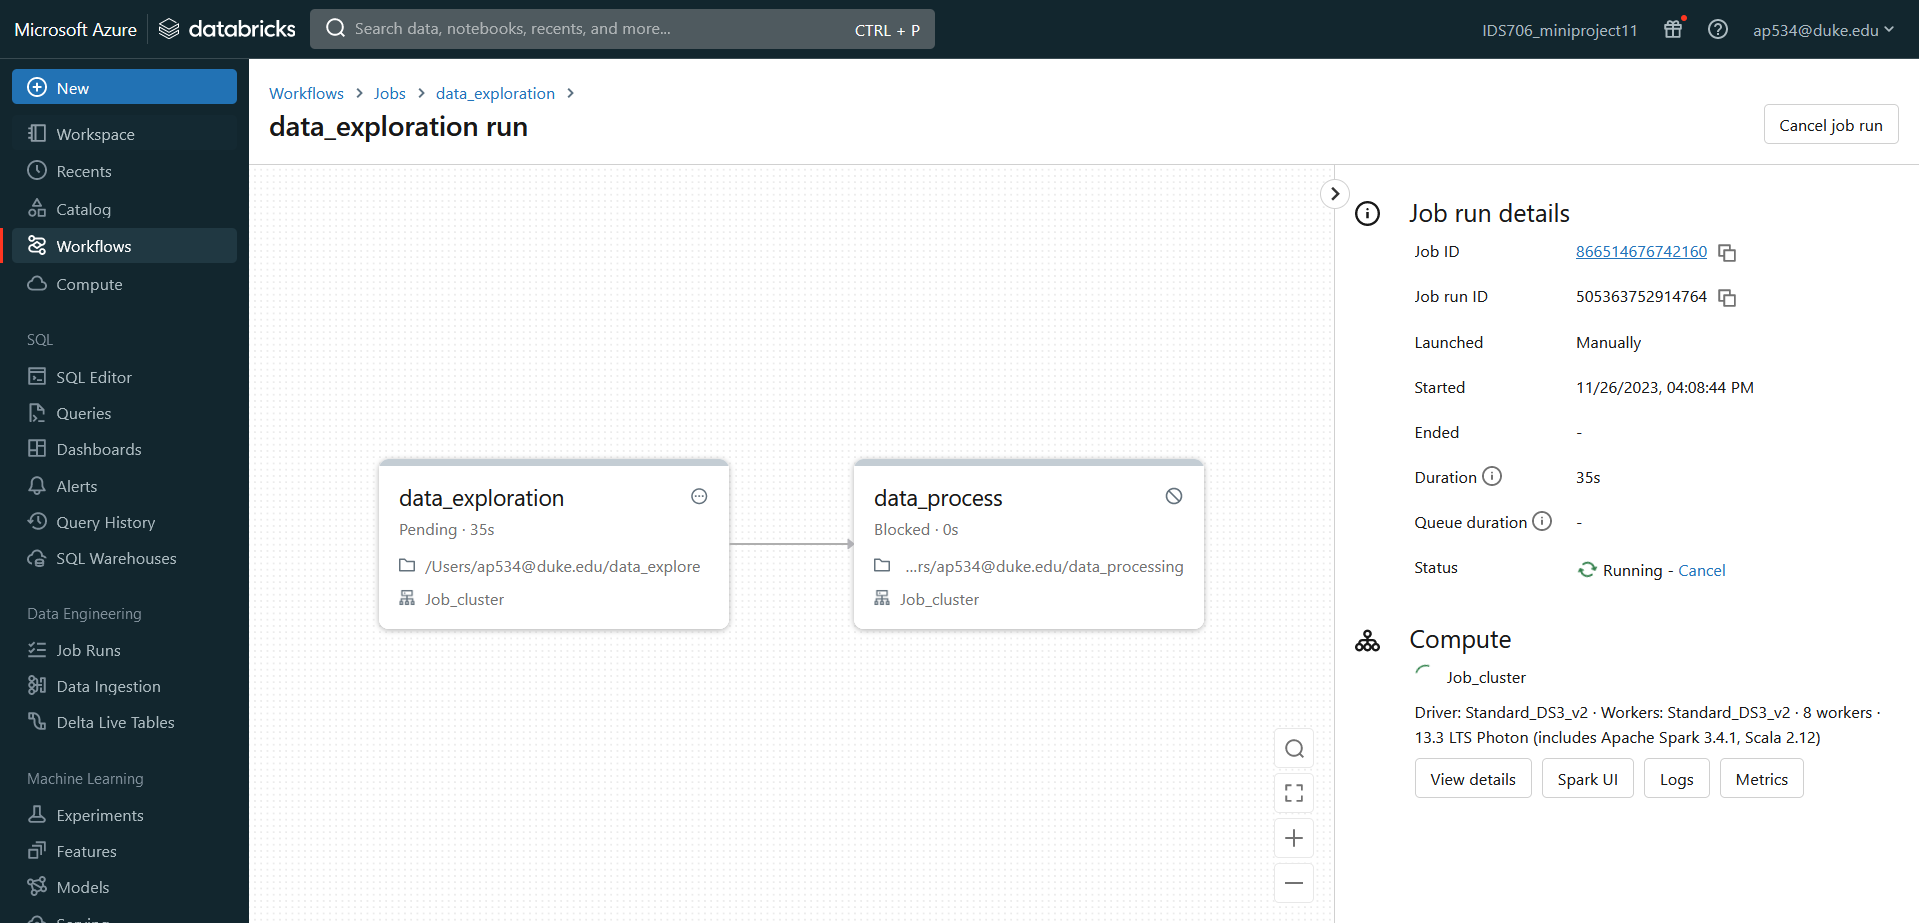
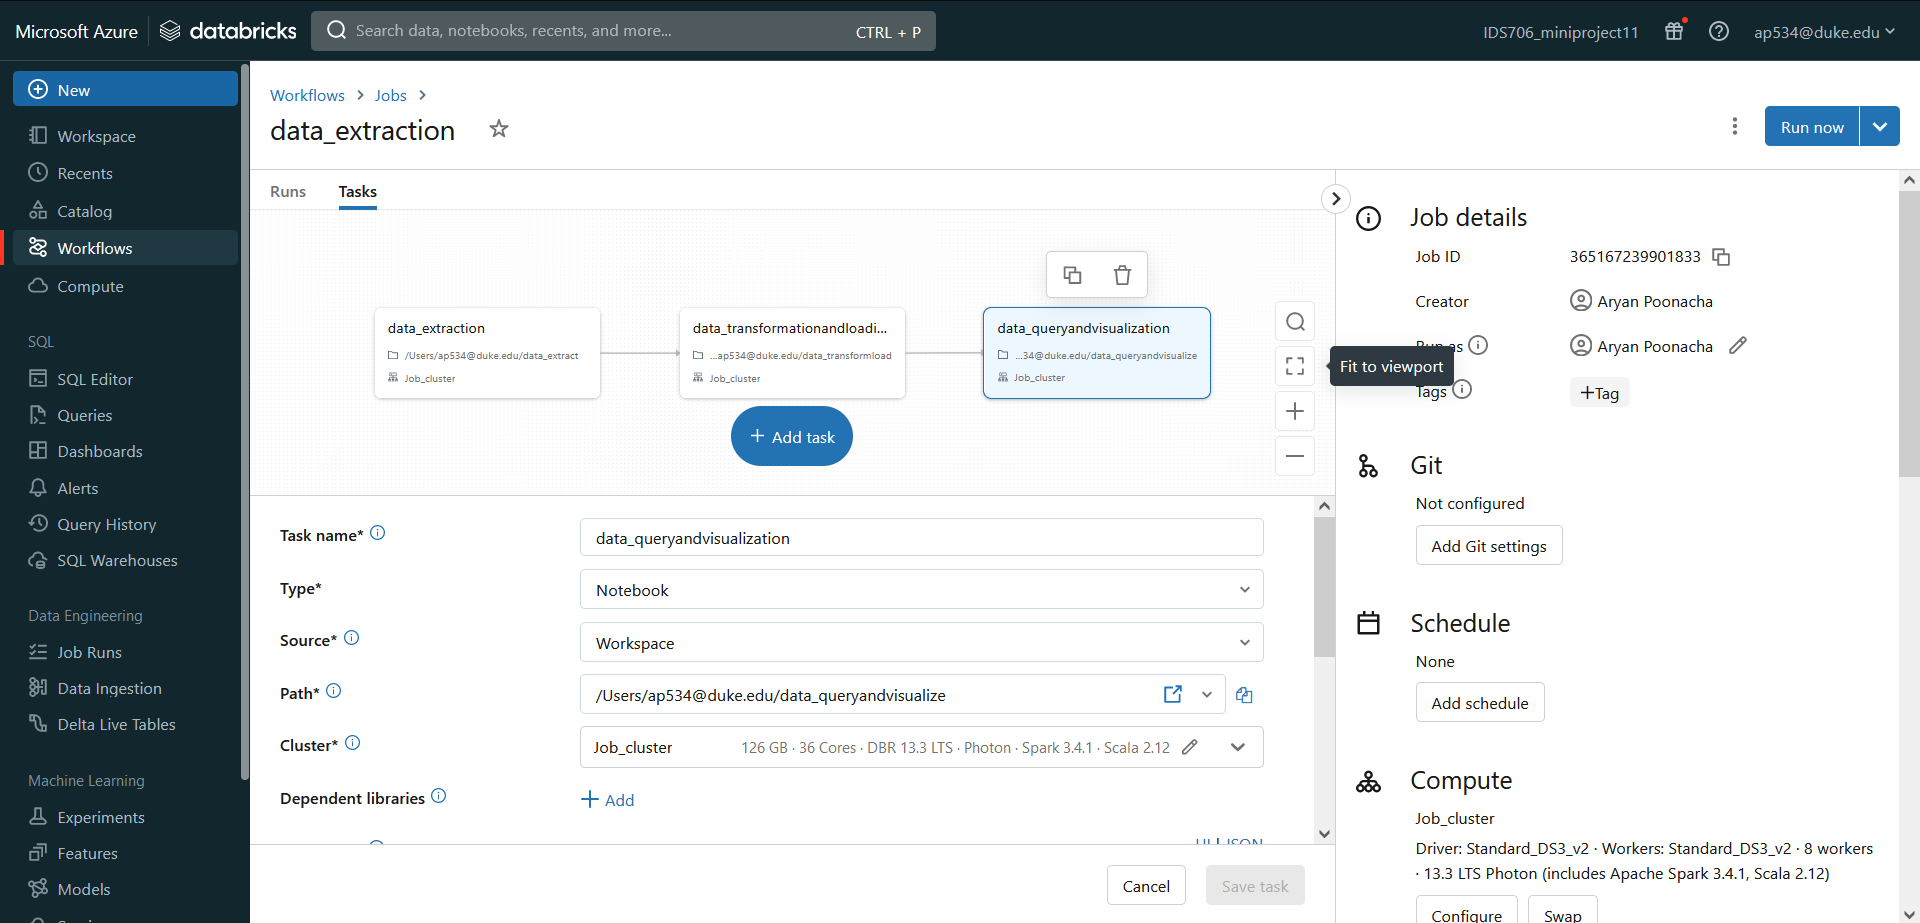
changes and updates

diff --git a/README.md b/README.md
@@ -1,3 +1,7 @@
+# IDS 706 - Individual Project 3
+
+In this project, we expand upon the pipeline created in miniproject 11 to create complex data ETL and finally complex visualizations that are able to communicate key data insights in an automated data pipeline with an automatic trigger.
+
 # Databricks Data Pipeline
 
 In this project we create a data pipeline with Databricks. This pipeline integrates data sources and destinations, loading, processing and querying the data in the pipeline effectively.
@@ -16,20 +20,29 @@ The steps carried out to execute this project are:
 ### Cluster Creation
 We create a databricks cluster as the basis for our data pipeline.
 
-### Explore Data
-We run commands from Databricks CLI and PySpark in a notebook to examine the source data. This is done in data_explore.
+### Extract Data
 
-### Read And Process Data
+The data_extract notebook contains the script to extract the appropriate dataset from the databricks example datasets.
 
-In this step, the raw data is loaded into a table, and then processed to keep relevant information. This takes place in the first few cells of the data_processing notebook.
+### Transform And Load Data
 
-### Querying Data
+This is a simple SQL query that creates a processed table that contains appropriate transformations from the extracted data.
 
-In this step, we query the data and output the results to show stats on some devices.
+### Querying And Visualizing Data
+
+In this step, we query the data and output the results to show stats on some devices. We then create an appropriate visualization using a complex query.
+
+![query](pics/viz.png)
 
 ### Databricks Job
 
-We then create a Databricks job to automate the execution of both data_explore and data_processing notebooks, creating an automated pipeline.
+We then create a Databricks job to automate the execution of all three steps - data_extract, data_transformload and data_queryandvisualize, creating an automated pipeline.
 
 ![job](pics/job.PNG)
-![jobs](pics/jobs.PNG)
+![run](pics/run.PNG)
+
+### Scheduled Run Trigger
+
+We make a specific trigger in databricks so that the data pipeline auto runs at a fixed interval, ensuring that the newest data is used for each pipeline run.
+
+![run](pics/trigger.PNG)
